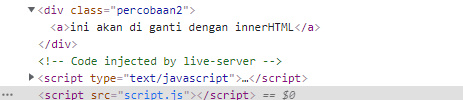
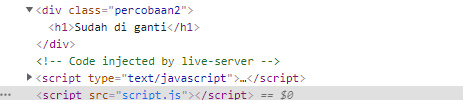
feat:menambah materi DOM-Method

diff --git a/learn/DOM/004_Methods/script.js b/learn/DOM/004_Methods/script.js
@@ -1,7 +1,10 @@
-const body = document.getElementsByTagName('body')[0];
-const app = document.getElementsByClassName('percobaan')[0];
-const app2 = document.getElementsByTagName('div')[1];
+const body = document.getElementsByTagName("body")[0];
+const app = document.getElementsByClassName("percobaan")[0];
+const app2 = document.getElementsByTagName("div")[1];
+//Menggunakan innerHTML
+app.innerHTML = "<a>Menggunakkan innerHTML</a>";
+app2.innerHTML = "<h1>Sudah di ganti</h1>";
 
-app.innerHTML = '<a>Menggunakkan innerHTML</a>';
-app2.innerHTML = '<h1>Sudah di ganti</h1>';
-
+//Menggunakan .style 
+app.style.backgroundColor = 'blue';
+app2.style.borderRadius = '10px';

diff --git a/learn/DOM/004_Methods/Readme.md b/learn/DOM/004_Methods/Readme.md
@@ -68,7 +68,7 @@ di atas kita ada ```<div>``` seperti pada contoh pertama tapi kali ini memiiki i
 
 - jika di inspect seperti gambar di bawah 
 
-<img src="img/codesebelumc2.jpg" alt="toggle" width="50%">
+<img src="img/codesebelum.jpg" alt="toggle" width="50%">
 
 Disini saya akan mengganti isinya ```<div>``` yang merupakan  ```<a>``` dengan ```<h1>``` berikut caranya :
 
@@ -89,6 +89,46 @@ app2.innerHTML = '<h1>Sudah di ganti</h1>';
  jika di inspect source code berubah seperti ini 
 
 <img src="img/codesesudah.jpg" alt="toggle" width="50%">
+
+### .Style
+
+Method Style ialah method yang di gunakan untuk memberikan style pada element HTML sebegaimna ketika menggunakan CSS bedanya ini kita aan menggunaan javascript untukk memberikan style nya, jika kita menggunakan Metodhe ini untuk memberikan style pada suatu element makan ini akan memberikan Inline CSS pada element tersebut 
+
+contoh 
+
+Untuk contoh kali ini saya akan menggunakan kembali element html di materi sebelumnya  saya  memberikan style pada ```<div>``` yang berada pada materi innerHTML yang di atas jadi kita langsung akan memberikan style dengan javascript caranya seperti ini 
+
+- pertama seleksi element yang akan di beri style dan di atas saya sudah melakukannya jadi saya tidak  akan melakukannya lagi silahkan lihat gambar yang ada di bawah ini yang berasal dari materi innerHTML di atas
+
+<img src="img/hasilcode.jpg" alt="toggle" width="50%">
+
+- kedua kita berikan aksinya kita berikan style nya 
+
+javascript
+
+```js
+app.style.backgroundColor = 'blue';
+app2.style.borderRadius = '10px' ;
+```
+
+maka hasilnya akan seperti gambar di bawah ini 
+
+<img src="img/style3.jpg" alt="toggle" width="50%">
+
+dan juga ini 
+
+<img src="img/style1.jpg" alt="toggle" width="50%">
+
+jika di inspect hasilnya akan seperti ini 
+
+<img src="img/style2.jpg" alt="toggle" width="50%">
+
+dan juga ini 
+
+<img src="img/style4.jpg" alt="toggle" width="50%">
+
+
+
 
 
 
